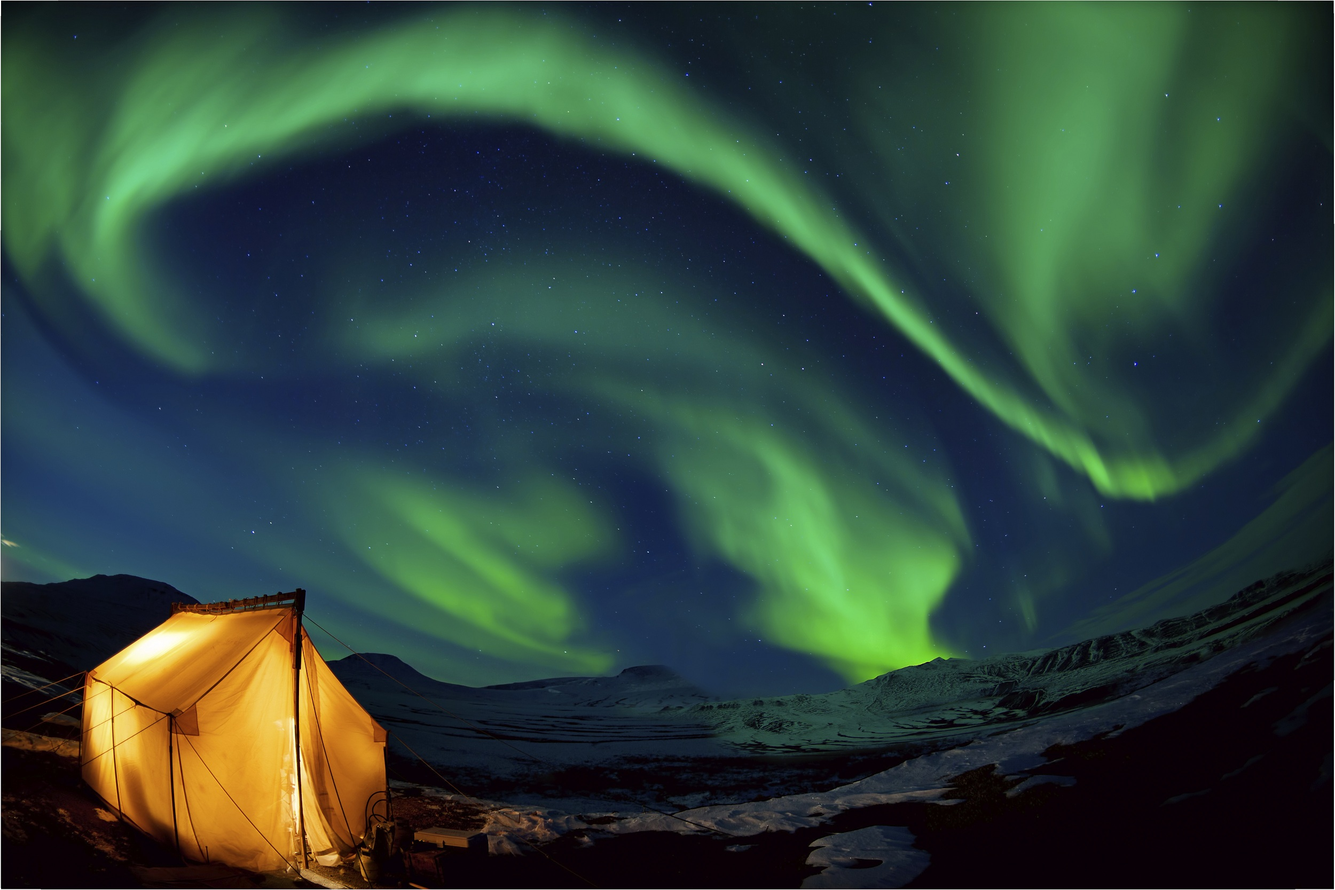
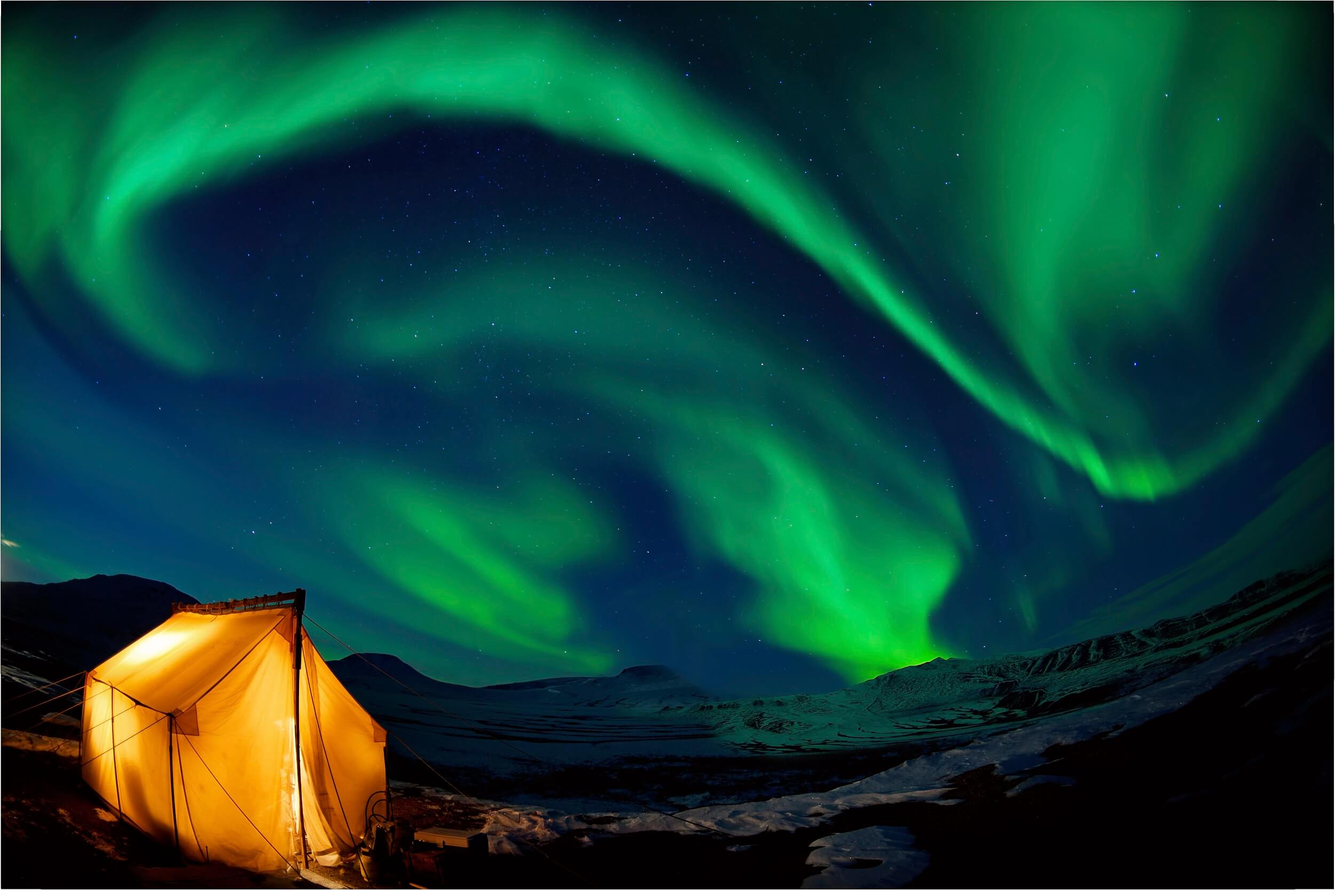
resized images and tidies up the nav bar

diff --git a/templates/base_temp.html b/templates/base_temp.html
@@ -161,49 +161,6 @@
           <div class=" column small-12">
             <div class="choose-a-country text-center">Choose a country</div>
             <ul class="country-selection transition">
-                <li><a href="/country_explorer">All</a></li>
-                <li><a href="/country_explorer">Test</a></li>
-                <li><a href="/country_explorer">Test</a></li>
-                <li><a href="/country_explorer">Test</a></li>
-                <li><a href="/country_explorer">Test</a></li>
-                <li><a href="/country_explorer">Test</a></li>
-                <li><a href="/country_explorer">Test</a></li>
-                <li><a href="/country_explorer">Test</a></li>
-                <li><a href="/country_explorer">Test</a></li>
-                <li><a href="/country_explorer">Test</a></li>
-                <li><a href="/country_explorer">Test</a></li>
-                <li><a href="/country_explorer">Test</a></li>
-                <li><a href="/country_explorer">Test</a></li>
-                <li><a href="/country_explorer">Test</a></li>
-                <li><a href="/country_explorer">Test</a></li>
-                <li><a href="/country_explorer">Test</a></li>
-                <li><a href="/country_explorer">Test</a></li>
-                <li><a href="/country_explorer">Test</a></li>
-                <li><a href="/country_explorer">Test</a></li>
-                <li><a href="/country_explorer">Test</a></li>
-                <li><a href="/country_explorer">Test</a></li>
-                <li><a href="/country_explorer">Test</a></li>
-                <li><a href="/country_explorer">Test</a></li>
-                <li><a href="/country_explorer">Test</a></li>
-                <li><a href="/country_explorer">Test</a></li>
-                <li><a href="/country_explorer">Test</a></li>
-                <li><a href="/country_explorer">Test</a></li>
-                <li><a href="/country_explorer">Test</a></li>
-                <li><a href="/country_explorer">Test</a></li>
-                <li><a href="/country_explorer">Test</a></li>
-                <li><a href="/country_explorer">Test</a></li>
-                <li><a href="/country_explorer">Test</a></li>
-                <li><a href="/country_explorer">Test</a></li>
-                <li><a href="/country_explorer">Test</a></li>
-                <li><a href="/country_explorer">Test</a></li>
-                <li><a href="/country_explorer">Test</a></li>
-                <li><a href="/country_explorer">Test</a></li>
-                <li><a href="/country_explorer">Test</a></li>
-                <li><a href="/country_explorer">Test</a></li>
-                <li><a href="/country_explorer">Test</a></li>
-                <li><a href="/country_explorer">Test</a></li>
-                <li><a href="/country_explorer">Test</a></li>
-                <li><a href="/country_explorer">Test</a></li>
               {% for country in countries %}
                 <li><a href="/country_explorer?countryCode={{country.countryCode}}">{{country.countryName}}</a></li>
               {% endfor %}

diff --git a/static/css/style.css b/static/css/style.css
@@ -648,6 +648,7 @@ nav li a{
 .top-bar-section li:not(.has-form) a:not(.button) {
     padding: 0;
     padding-right: 1rem;
+    padding-left: 1rem;
 }
 
 /* =========================================== */
